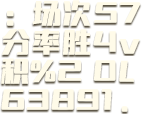
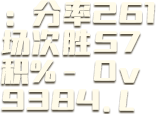
font

diff --git a/src/scene/hall/content.ts b/src/scene/hall/content.ts
@@ -70,10 +70,14 @@ export class HallContent extends ui.hall.hallcontentUI {
         });
     }
     updateView(data) {
+        let winRate = data.winRate.toFixed(2) + '%';
+        if (data.winRate == -1) {
+            winRate = '--';
+        }
+        this.winrate.changeText(`胜率:${winRate}`);
         this.userName.changeText(data.nickname);
         this.level.changeText(`Lv:${data.level}`);
         this.totalRound.changeText(`场次:${data.totalPlayCount}`);
-        this.winrate.changeText(`胜率:${data.winRate.toFixed(2)}%`);
         this.score.changeText(`积分:${data.score}`);
         this.expBar.value = data.currentExp / data.nextLevelExp;
         this.avatar.skin = getAvatar(data.avatar);

diff --git a/src/scene/popup/popupGameOver.ts b/src/scene/popup/popupGameOver.ts
@@ -58,8 +58,8 @@ export class PopupGameOver extends ui.popup.popupGameOverUI {
         data.list.forEach((user, index) => {
             let avatar = new Avatar(user);
             avatar.left =
-                (this.avatarBox.width / (data.list.length + 1)) * (index + 1) -
-                100;
+                ((this.avatarBox.width + 200) / (data.list.length + 1)) * (index + 1) -
+                200;
             this.avatarBox.addChild(avatar);
             if (user.isWinUser) {
                 this.winUserNamme.text = user.nickname;

diff --git a/src/scene/popup/popupTakeExplode.ts b/src/scene/popup/popupTakeExplode.ts
@@ -23,8 +23,8 @@ export class PopupTakeExplode extends ui.popup.popupTakeExplodeUI {
         Laya.SoundManager.playSound(getSoundPath('exploding'));
         this.ani.visible = true;
         this.ani.once(Laya.Event.STOPPED, this, () => {
-            this.ani.play(1, true);
-        })
-        this.ani.play(0, false);
+            this.ani.play('wait', true);
+        });
+        this.ani.play('show', false);
     }
 }

diff --git a/src/scene/popup/component/avatar.ts b/src/scene/popup/component/avatar.ts
@@ -20,7 +20,7 @@ export class Avatar extends ui.popup.component.avatarUI {
         }
         if (danGrading) {
             let rank = new rankIcon(danGrading);
-            rank.bottom = -10;
+            rank.y = 100;
             rank.centerX = -2;
             this.addChild(rank);
         }
